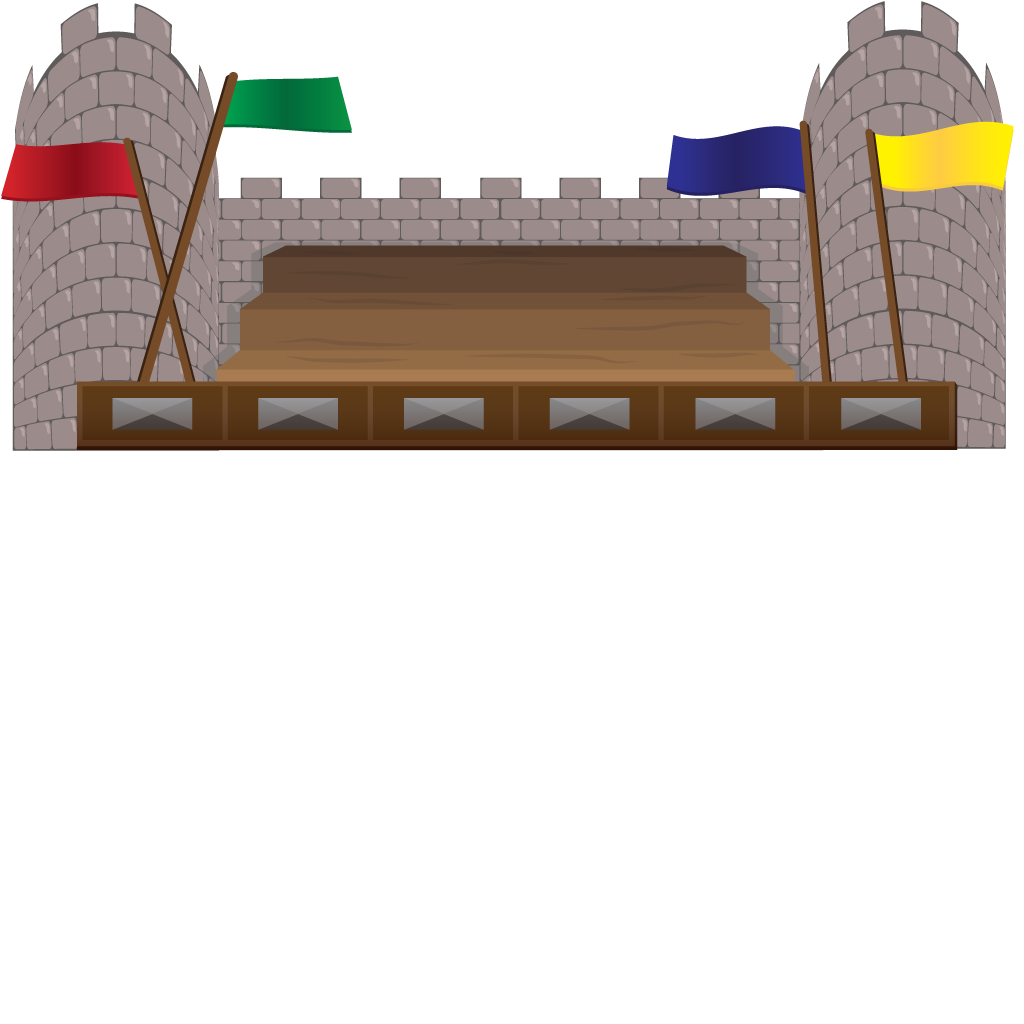
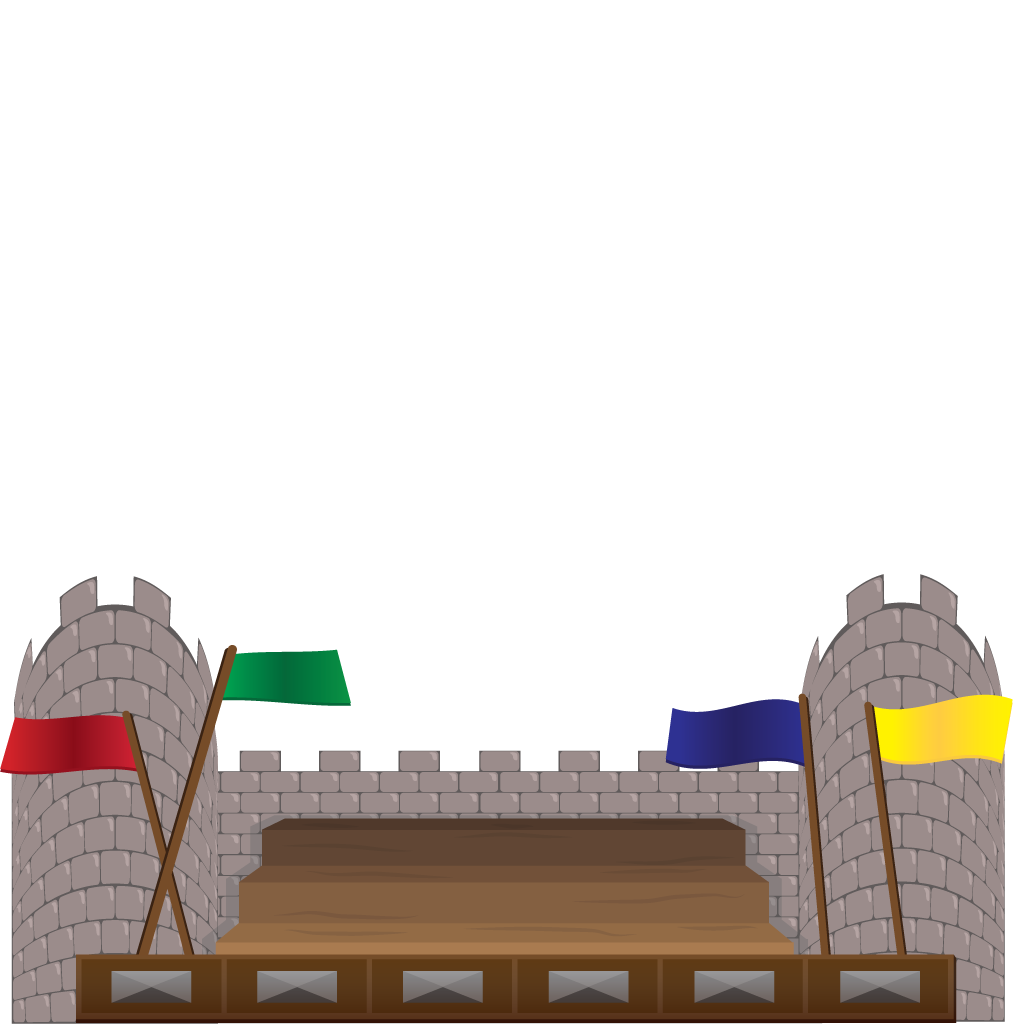
minor visual changes

diff --git a/vox/Source/vox/src/StartupScene.cpp b/vox/Source/vox/src/StartupScene.cpp
@@ -16,11 +16,11 @@
 #include <BehaviourManager.h>
 
 StartupScene::StartupScene(PuppetGame * _game) :
-	PuppetScene(_game, 20.f)
-	/*playerCharacter1(new PuppetCharacterKnight(false, 0, world, PuppetGame::kPLAYER, PuppetGame::kGROUND | PuppetGame::kSTRUCTURE | PuppetGame::kITEM | PuppetGame::kPLAYER | PuppetGame::kBEHAVIOUR | PuppetGame::kBOUNDARY, -1)),
+	PuppetScene(_game, 20.f, 30.f, 20.f),
+	playerCharacter1(new PuppetCharacterKnight(false, 0, world, PuppetGame::kPLAYER, PuppetGame::kGROUND | PuppetGame::kSTRUCTURE | PuppetGame::kITEM | PuppetGame::kPLAYER | PuppetGame::kBEHAVIOUR | PuppetGame::kBOUNDARY, -1)),
 	playerCharacter2(new PuppetCharacterKnight(false, 1, world, PuppetGame::kPLAYER, PuppetGame::kGROUND | PuppetGame::kSTRUCTURE | PuppetGame::kITEM | PuppetGame::kPLAYER | PuppetGame::kBEHAVIOUR | PuppetGame::kBOUNDARY, -2)),
 	playerCharacter3(new PuppetCharacterKnight(false, 2, world, PuppetGame::kPLAYER, PuppetGame::kGROUND | PuppetGame::kSTRUCTURE | PuppetGame::kITEM | PuppetGame::kPLAYER | PuppetGame::kBEHAVIOUR | PuppetGame::kBOUNDARY, -3)),
-	playerCharacter4(new PuppetCharacterKnight(false, 3, world, PuppetGame::kPLAYER, PuppetGame::kGROUND | PuppetGame::kSTRUCTURE | PuppetGame::kITEM | PuppetGame::kPLAYER | PuppetGame::kBEHAVIOUR | PuppetGame::kBOUNDARY, -4))*/
+	playerCharacter4(new PuppetCharacterKnight(false, 3, world, PuppetGame::kPLAYER, PuppetGame::kGROUND | PuppetGame::kSTRUCTURE | PuppetGame::kITEM | PuppetGame::kPLAYER | PuppetGame::kBEHAVIOUR | PuppetGame::kBOUNDARY, -4))
 {
 	splashMessage = new Sprite(nullptr, new Transform());
 	splashMessage->mesh->pushTexture2D(PuppetResourceManager::startupSplash);
@@ -31,7 +31,7 @@ StartupScene::StartupScene(PuppetGame * _game) :
 
 	//Do we want some guys in here?
 	
-	/*playerCharacter1->setShader(shader, true);
+	playerCharacter1->setShader(shader, true);
 	addChild(playerCharacter1, 1);
 	playerCharacter1->addToLayeredScene(this, 1);
 	playerCharacter1->behaviourManager->addBehaviour(new BehaviourAttack(playerCharacter1, 3, PuppetGame::kPLAYER));
@@ -52,24 +52,25 @@ StartupScene::StartupScene(PuppetGame * _game) :
 	playerCharacter4->setShader(shader, true);
 	addChild(playerCharacter4, 1);
 	playerCharacter4->addToLayeredScene(this, 1);
-
 	playerCharacter4->behaviourManager->addBehaviour(new BehaviourAttack(playerCharacter3, 3, PuppetGame::kPLAYER));
 	playerCharacter4->ai = true;
 
-	gameCam->addTarget(playerCharacter1->torso);
+	/*gameCam->addTarget(playerCharacter1->torso);
 	gameCam->addTarget(playerCharacter2->torso);
 	gameCam->addTarget(playerCharacter3->torso);
-	gameCam->addTarget(playerCharacter4->torso);
+	gameCam->addTarget(playerCharacter4->torso);*/
 
-	playerCharacter1->translateComponents(glm::vec3(20.0f, 35, 0.f));
-	playerCharacter2->translateComponents(glm::vec3(40.0f, 35, 0.f));
-	playerCharacter3->translateComponents(glm::vec3(60.0f, 35, 0.f));
-	playerCharacter4->translateComponents(glm::vec3(80.0f, 35, 0.f));*/
+	playerCharacter1->translateComponents(glm::vec3(0.5f * sceneWidth*0.25f, 35, 0.f));
+	playerCharacter2->translateComponents(glm::vec3(1.5f * sceneWidth*0.25f, 35, 0.f));
+	playerCharacter3->translateComponents(glm::vec3(2.5f * sceneWidth*0.25f, 35, 0.f));
+	playerCharacter4->translateComponents(glm::vec3(3.5f * sceneWidth*0.25f, 35, 0.f));
+
+	gameCam->offset = glm::vec3(sceneWidth*0.5f, sceneHeight*0.5f, 0);
 }
 void StartupScene::complete(std::string _switchTo){
 	if (_switchTo == ""){
-    PuppetGame * pg = static_cast<PuppetGame *>(game);
-	pg->loadRandomScene();
+		PuppetGame * pg = static_cast<PuppetGame *>(game);
+		pg->loadRandomScene();
 	}else{
 		PuppetScene::complete(_switchTo);
 	}

diff --git a/vox/Source/vox/src/FightYourFriends.cpp b/vox/Source/vox/src/FightYourFriends.cpp
@@ -85,11 +85,6 @@ FightYourFriends::FightYourFriends(PuppetGame* _game):
 	static_cast<PuppetGame *>(game)->puppetControllers.at(3)->setPuppetCharacter(playerCharacter4);
 	playerCharacter4->createIndicator(playerCharacter4->id);
 
-	gameCam->addTarget(playerCharacter1->torso);
-	gameCam->addTarget(playerCharacter2->torso);
-	gameCam->addTarget(playerCharacter3->torso);
-	gameCam->addTarget(playerCharacter4->torso);
-
 	for(PuppetCharacter * p : players){
 		TextureSampler * weaponTex = PuppetResourceManager::getRandomMeleeWeapon();
 		ItemSimpleWeapon * weapon = new ItemSimpleWeapon(weaponTex, false, world, PuppetGame::kITEM, PuppetGame::kPLAYER | PuppetGame::kBOUNDARY | PuppetGame::kGROUND, p->groupIndex, 1, 0, -weaponTex->height);
@@ -109,6 +104,15 @@ FightYourFriends::FightYourFriends(PuppetGame* _game):
 	
 	populateBackground();
 	populateClouds();
+
+	gameCam->addTarget(playerCharacter1->torso);
+	gameCam->addTarget(playerCharacter2->torso);
+	gameCam->addTarget(playerCharacter3->torso);
+	gameCam->addTarget(playerCharacter4->torso);
+
+	gameCam->useBounds = true;
+	gameCam->minBounds.y = -2.f;
+	gameCam->minBounds.height = sceneHeight;
 }
 
 FightYourFriends::~FightYourFriends(){
@@ -180,7 +184,7 @@ void FightYourFriends::populateBackground(){
 	if(std::rand() % 2 == 0){
 		Sprite * arenaBg = new Sprite();
 		float scale = sceneWidth*0.8f;
-		arenaBg->transform->translate(1024/2 * scale * 0.001f, -1024/8 * scale * 0.001f, -5);
+		arenaBg->transform->translate(25, 35, -5);
 		arenaBg->transform->scale(scale, scale, 1);
 		arenaBg->mesh->pushTexture2D(FightYourFriendsResourceManager::arena1);
 		arenaBg->setShader(shader, true);
@@ -196,10 +200,7 @@ void FightYourFriends::populateBackground(){
 
 		Box2DSprite * arenaFg = new Box2DSprite(world, FightYourFriendsResourceManager::arena2Fg, b2_staticBody, false, nullptr, new Transform(), 0.03f);
 		arenaFg->setTranslationPhysical(arenaFg->getCorrectedWidth()/2.f + 12.f, sceneHeight*0.25f, 0);
-		for(unsigned long int i = 0; i < arenaFg->mesh->vertices.size(); ++i){
-			arenaFg->mesh->vertices.at(i).y += 25.f;
-		}
-		arenaFg->mesh->dirty = true;
+		
 	b2Filter sf;
     sf.categoryBits = PuppetGame::kGROUND;
     sf.groupIndex = 0;
@@ -207,5 +208,10 @@ void FightYourFriends::populateBackground(){
 		arenaFg->createFixture(sf);
 		arenaFg->setShader(shader, true);
 		addChild(arenaFg, 1);
+
+		for(unsigned long int i = 0; i < arenaFg->mesh->vertices.size(); ++i){
+			arenaFg->mesh->vertices.at(i).y += 2.5f;
+		}
+		arenaFg->mesh->dirty = true;
 	}
 }

diff --git a/vox/Source/vox/src/RaidTheCastle.cpp b/vox/Source/vox/src/RaidTheCastle.cpp
@@ -96,25 +96,17 @@ RaidTheCastle::RaidTheCastle(PuppetGame* _game):
 	champion->itemToPickup->addToLayeredScene(this, 1);
 	champion->itemToPickup->setShader(shader, true);
 
-	gameCam->addTarget(playerCharacter1->torso);
-	gameCam->addTarget(playerCharacter2->torso);
-	gameCam->addTarget(playerCharacter3->torso);
-	gameCam->addTarget(playerCharacter4->torso);
-
-	gameCam->addTarget(catapult);
-	gameCam->addTarget(castle);
-
 	castle->setShader(shader, true);
 	castle->addToLayeredScene(this, 0);
 	addChild(castle, 0);
 
-	castle->translateComponents(glm::vec3(120, 0, 0));
+	castle->translateComponents(glm::vec3(120.f, 0.f, 0.f));
 
 	catapult->setShader(shader, true);
 	catapult->addToLayeredScene(this, 1);
 	addChild(catapult, 1);
 
-	catapult->translateComponents(glm::vec3(10.0f,0,0));
+	catapult->translateComponents(glm::vec3(12.0f, 0.f, 0.f));
 	
 	//playerCharacter3->behaviourManager->addBehaviour(new BehaviourPatrol(glm::vec3(50,0,0), glm::vec3(100,0,0), playerCharacter3, 10));
 	//playerCharacter3->behaviourManager->addBehaviour(new BehaviourAttack(playerCharacter3, 3, PuppetGame::kPLAYER));
@@ -147,6 +139,15 @@ RaidTheCastle::RaidTheCastle(PuppetGame* _game):
 	catapult->prepare();
 
 	populateClouds();
+	
+
+	gameCam->addTarget(playerCharacter1->torso);
+	gameCam->addTarget(playerCharacter2->torso);
+	gameCam->addTarget(playerCharacter3->torso);
+	gameCam->addTarget(playerCharacter4->torso);
+
+	gameCam->addTarget(catapult);
+	gameCam->addTarget(castle);
 
 	gameCam->useBounds = true;
 	gameCam->minBounds.x = 0;
